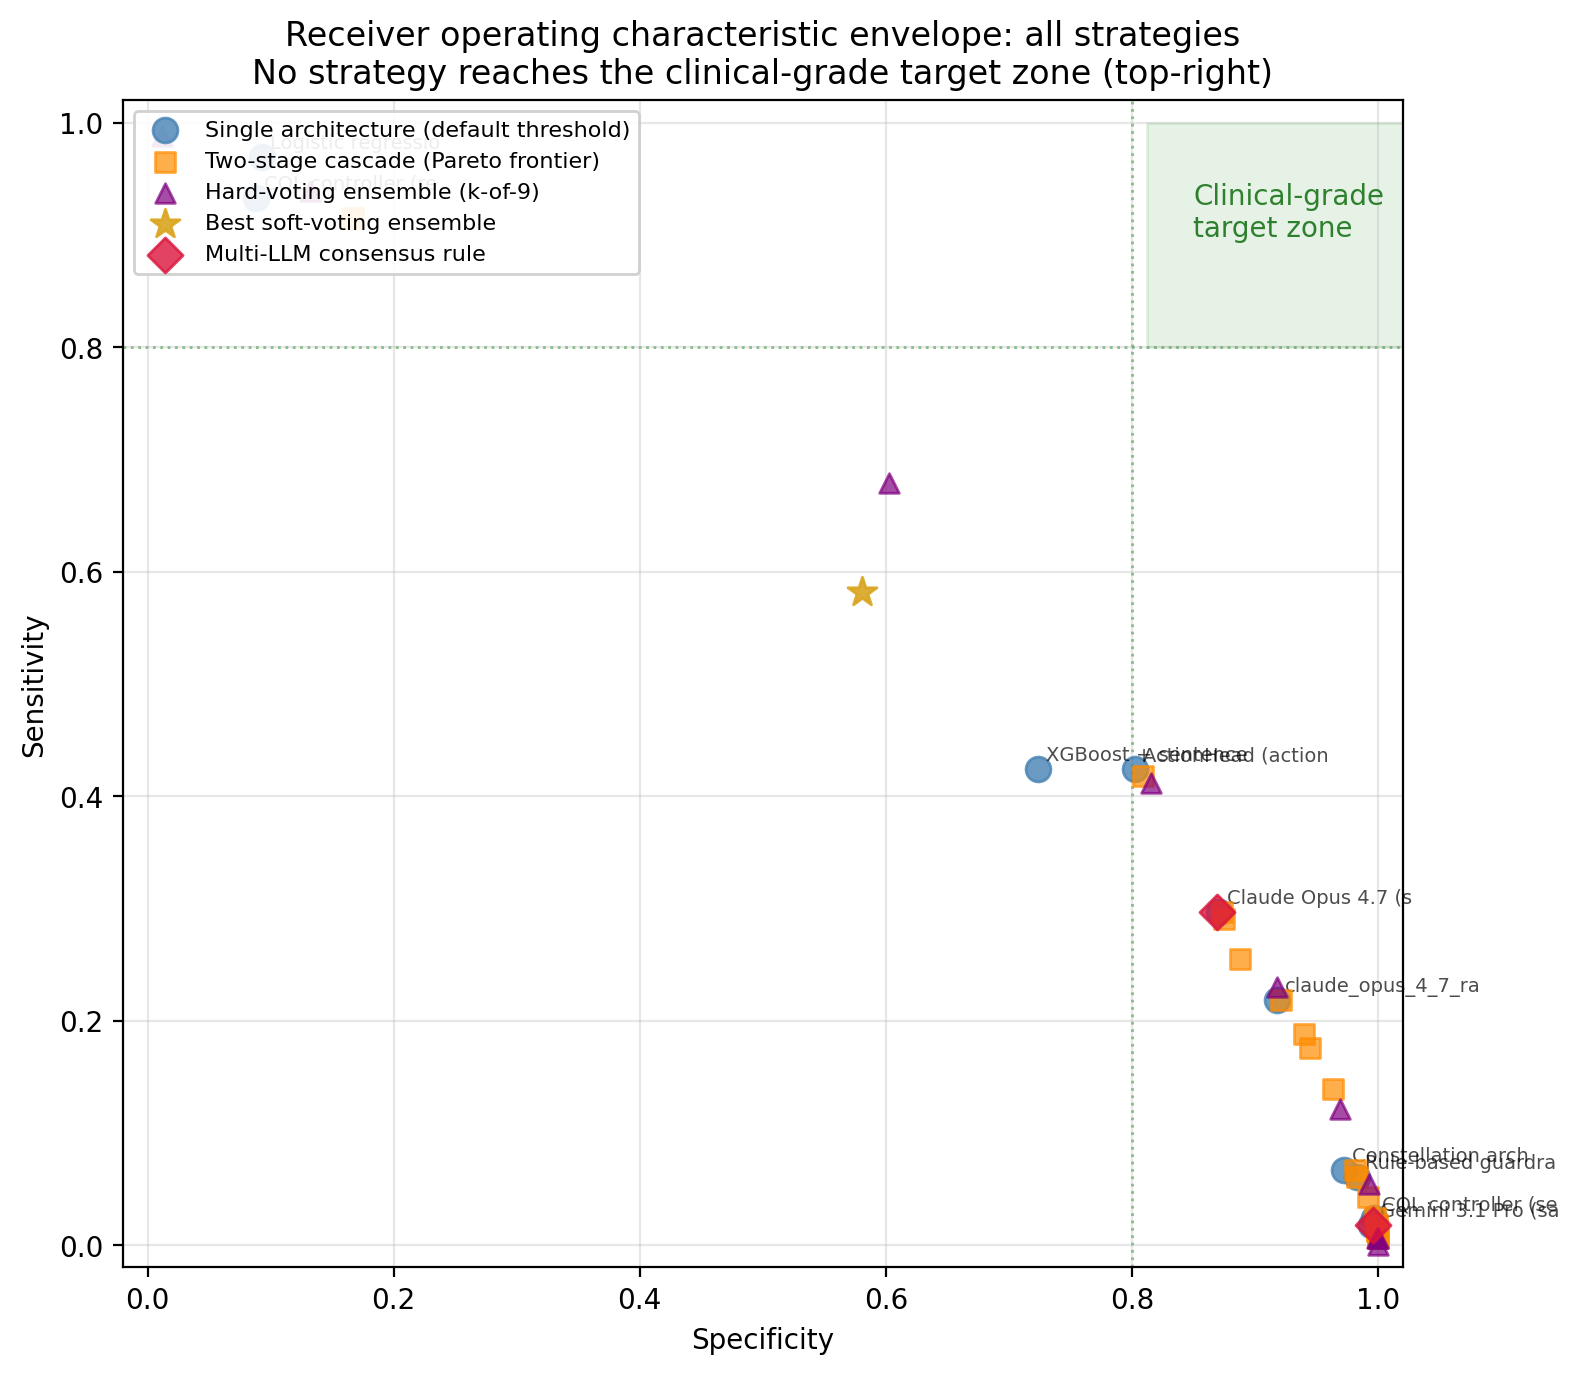
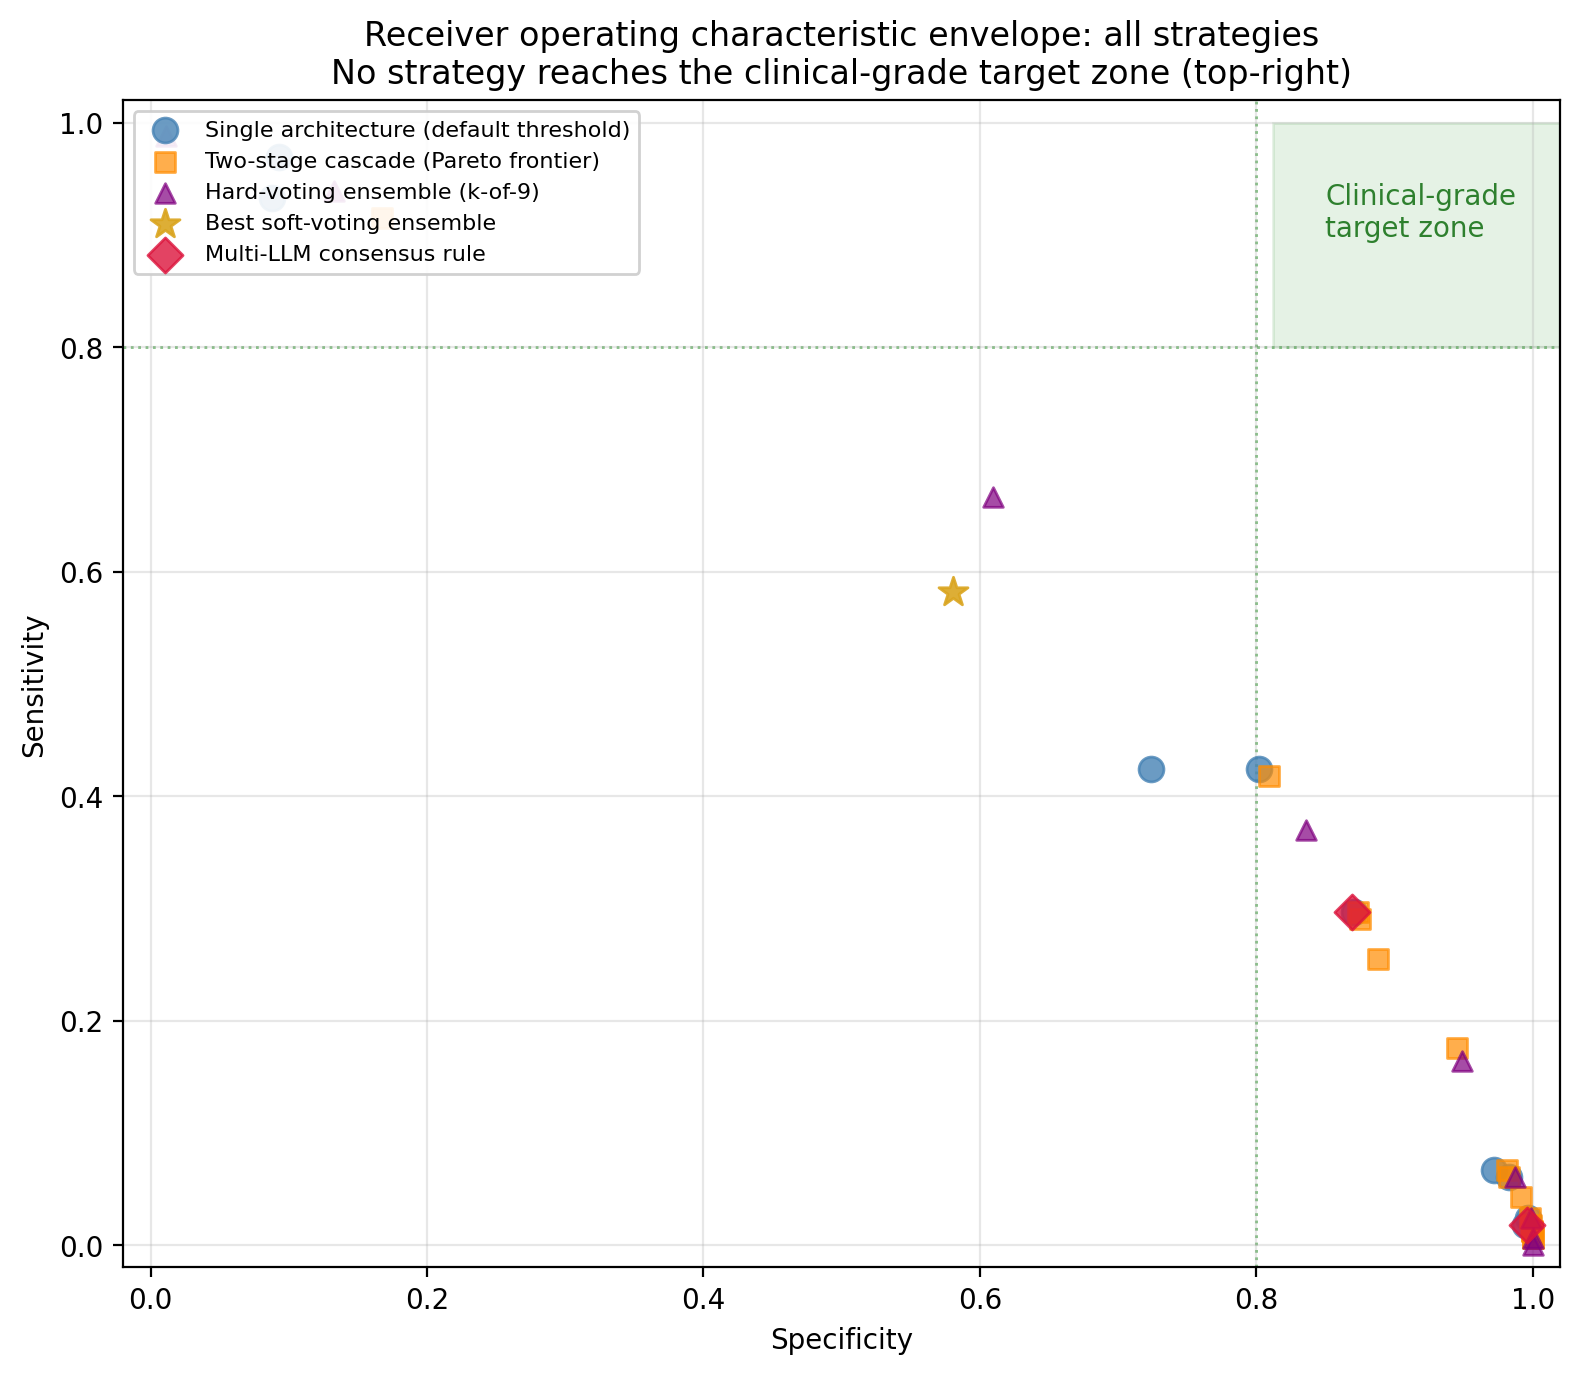
Reframe acceptance-positive: classical clinical-screening cascade, multi-state correction, IDx-DR citation anchor
Major reframing pass to maximize BMC MIDM acceptance and harden against
lazy-LLM critique.

Part A (acceptance-maximizing):
- Reframe Policy A as the classical screen-then-confirm clinical cascade
  (high-sensitivity AI screen → high-specificity clinician confirmatory
  review), instantiating mammography/ELISA-style triage for Medicaid SMS
- Named-contrast Intro: AMIE (Saab Nat Med 2026) on 105 scripted scenarios
  vs Liu (JAMIA 2025) on AMC portal messages vs present multi-state Medicaid
  SMS — explicit dimensions of difference rather than generic gap claim
- Add IDx-DR Abràmoff 2018 npj Digital Medicine pivotal-trial citation as
  the anchor for the 0.80/0.80 simultaneous benchmark (new ref [7])
- Tighten primacy to "to the authors' knowledge for the first time"
- Add "What this study adds" 3-bullet panel (BMC template-compatible)

Multi-state correction (was implicit "single-program"):
- Virginia, Washington, Ohio — multi-state clinically integrated network
- Updated abstract, intro, methods, discussion, limitations, conclusions
- Cover letter updated to match

Part B (LLM-reviewer-proofing):
- Bold abstract section headers (Background/Objective/Methods/Results/Conclusions)
- 8 pre-empted critiques named explicitly in Strengths and limitations:
  geographic scope, retrospective design, single-turn, message-level holdout,
  calibration-on-validation (not test), frontier-LLM vendor coverage, sample
  size, temporal validation
[…]

diff --git a/results/tables/tableS4_category_stratification.md b/results/tables/tableS4_category_stratification.md
@@ -1,9 +1,9 @@
-| hazard_category | n hazards | Logistic regression + TF-IDF | CQL controller (reward-optimized) | ActionHead (action recommender) | XGBoost + sentence-BERT | Claude Opus 4.7 (safety-augmented) | claude_opus_4_7_rag | Rule-based guardrails | Constellation architecture | CQL controller (sensitivity-optimized) | Gemini 3.1 Pro (safety-augmented) |
-|---|---|---|---|---|---|---|---|---|---|---|---|
-| behavioral_other | 12 | 1.0 | 1.0 | 0.667 | 0.417 | 0.5 | 0.25 | 0.0 | 0.0 | 0.0 | 0.0 |
-| behavioral_suicidality | 7 | 1.0 | 1.0 | 0.857 | 0.571 | 0.714 | 0.286 | 0.0 | 0.286 | 0.286 | 0.143 |
-| environmental_housing_safety | 12 | 0.833 | 1.0 | 0.583 | 0.75 | 0.5 | 0.25 | 0.0 | 0.0 | 0.0 | 0.0 |
-| falls_mobility | 7 | 1.0 | 1.0 | 0.714 | 0.571 | 0.571 | 0.286 | 0.143 | 0.0 | 0.0 | 0.0 |
-| med_safety | 9 | 1.0 | 1.0 | 0.333 | 0.889 | 0.333 | 0.333 | 0.222 | 0.111 | 0.0 | 0.0 |
-| other_hazard | 112 | 0.973 | 0.911 | 0.321 | 0.339 | 0.188 | 0.17 | 0.054 | 0.071 | 0.018 | 0.018 |
-| substance_use | 4 | 1.0 | 0.75 | 0.75 | 0.25 | 0.75 | 0.75 | 0.25 | 0.0 | 0.0 | 0.0 |
+| hazard_category | n hazards | Logistic regression + TF-IDF | CQL controller (reward-optimized) | ActionHead (action recommender) | XGBoost + sentence-BERT | Claude Opus 4.7 (safety-augmented) | Rule-based guardrails | Constellation architecture | CQL controller (sensitivity-optimized) | Gemini 3.1 Pro (safety-augmented) |
+|---|---|---|---|---|---|---|---|---|---|---|
+| behavioral_other | 12 | 1.0 | 1.0 | 0.667 | 0.417 | 0.5 | 0.0 | 0.0 | 0.0 | 0.0 |
+| behavioral_suicidality | 7 | 1.0 | 1.0 | 0.857 | 0.571 | 0.714 | 0.0 | 0.286 | 0.286 | 0.143 |
+| environmental_housing_safety | 12 | 0.833 | 1.0 | 0.583 | 0.75 | 0.5 | 0.0 | 0.0 | 0.0 | 0.0 |
+| falls_mobility | 7 | 1.0 | 1.0 | 0.714 | 0.571 | 0.571 | 0.143 | 0.0 | 0.0 | 0.0 |
+| med_safety | 9 | 1.0 | 1.0 | 0.333 | 0.889 | 0.333 | 0.222 | 0.111 | 0.0 | 0.0 |
+| other_hazard | 112 | 0.973 | 0.911 | 0.321 | 0.339 | 0.188 | 0.054 | 0.071 | 0.018 | 0.018 |
+| substance_use | 4 | 1.0 | 0.75 | 0.75 | 0.25 | 0.75 | 0.25 | 0.0 | 0.0 | 0.0 |

diff --git a/results/tables/tableS3_cascade_full.md b/results/tables/tableS3_cascade_full.md
@@ -8,13 +8,8 @@
 | Claude Opus 4.7 × CQL reward-opt | 0.297 | 0.874 | 0.174 | 0.220 | 0.135 |
 | Claude Opus 4.7 × LogReg+TF-IDF | 0.291 | 0.875 | 0.173 | 0.217 | 0.132 |
 | ActionHead × XGBoost+SBERT | 0.255 | 0.888 | 0.169 | 0.203 | 0.119 |
-| claude_opus_4_7_rag × LogReg+TF-IDF | 0.218 | 0.921 | 0.200 | 0.209 | 0.134 |
-| claude_opus_4_7_rag × CQL reward-opt | 0.218 | 0.919 | 0.196 | 0.206 | 0.131 |
-| claude_opus_4_7_rag × Claude Opus 4.7 | 0.188 | 0.940 | 0.218 | 0.202 | 0.137 |
 | ActionHead × Claude Opus 4.7 | 0.176 | 0.945 | 0.223 | 0.197 | 0.135 |
 | Claude Opus 4.7 × XGBoost+SBERT | 0.158 | 0.944 | 0.202 | 0.177 | 0.114 |
-| ActionHead × claude_opus_4_7_rag | 0.139 | 0.964 | 0.256 | 0.180 | 0.137 |
-| claude_opus_4_7_rag × XGBoost+SBERT | 0.115 | 0.954 | 0.184 | 0.142 | 0.086 |
 | Constellation × XGBoost+SBERT | 0.067 | 0.982 | 0.244 | 0.105 | 0.089 |
 | Constellation × CQL reward-opt | 0.067 | 0.972 | 0.177 | 0.097 | 0.062 |
 | Constellation × LogReg+TF-IDF | 0.067 | 0.972 | 0.177 | 0.097 | 0.062 |
@@ -30,11 +25,8 @@
 | CQL reward-opt × CQL sens-opt | 0.024 | 0.997 | 0.400 | 0.046 | 0.082 |
 | CQL sens-opt × LogReg+TF-IDF | 0.024 | 0.997 | 0.400 | 0.046 | 0.082 |
 | ActionHead × Guardrails | 0.024 | 0.994 | 0.250 | 0.044 | 0.055 |
-| claude_opus_4_7_rag × Guardrails | 0.024 | 0.992 | 0.210 | 0.043 | 0.046 |
-| claude_opus_4_7_rag × Constellation | 0.024 | 0.989 | 0.167 | 0.042 | 0.034 |
 | Gemini 3.1 Pro × XGBoost+SBERT | 0.018 | 0.999 | 0.600 | 0.035 | 0.094 |
 | Claude Opus 4.7 × CQL sens-opt | 0.018 | 0.998 | 0.500 | 0.035 | 0.083 |
-| claude_opus_4_7_rag × Gemini 3.1 Pro | 0.018 | 0.997 | 0.333 | 0.035 | 0.061 |
 | Claude Opus 4.7 × Gemini 3.1 Pro | 0.018 | 0.996 | 0.300 | 0.034 | 0.056 |
 | CQL reward-opt × Gemini 3.1 Pro | 0.018 | 0.995 | 0.231 | 0.034 | 0.044 |
 | Gemini 3.1 Pro × LogReg+TF-IDF | 0.018 | 0.995 | 0.231 | 0.034 | 0.044 |
@@ -43,5 +35,4 @@
 | ActionHead × Gemini 3.1 Pro | 0.012 | 0.998 | 0.333 | 0.023 | 0.050 |
 | CQL sens-opt × Gemini 3.1 Pro | 0.006 | 1.000 | 1.000 | 0.012 | 0.075 |
 | CQL sens-opt × Guardrails | 0.006 | 1.000 | 1.000 | 0.012 | 0.075 |
-| claude_opus_4_7_rag × CQL sens-opt | 0.006 | 1.000 | 0.500 | 0.012 | 0.048 |
 | Gemini 3.1 Pro × Guardrails | 0.000 | 1.000 | 0.000 | 0.000 | -0.007 |

diff --git a/results/tables/table5_cascade_pareto.md b/results/tables/table5_cascade_pareto.md
@@ -5,10 +5,7 @@
 | Claude Opus 4.7 × CQL reward-opt | 0.297 (0.233–0.371) | 0.874 (0.858–0.888) | 0.174 | 0.220 | 0.135 | 58.0 |
 | Claude Opus 4.7 × LogReg+TF-IDF | 0.291 (0.227–0.364) | 0.875 (0.859–0.889) | 0.173 | 0.217 | 0.132 | 58.5 |
 | ActionHead × XGBoost+SBERT | 0.255 (0.194–0.326) | 0.888 (0.873–0.901) | 0.169 | 0.203 | 0.119 | 61.5 |
-| claude_opus_4_7_rag × LogReg+TF-IDF | 0.218 (0.162–0.287) | 0.921 (0.908–0.933) | 0.200 | 0.209 | 0.134 | 64.5 |
-| claude_opus_4_7_rag × Claude Opus 4.7 | 0.188 (0.136–0.254) | 0.940 (0.928–0.950) | 0.218 | 0.202 | 0.137 | 67.0 |
 | ActionHead × Claude Opus 4.7 | 0.176 (0.125–0.241) | 0.945 (0.934–0.955) | 0.223 | 0.197 | 0.135 | 68.0 |
-| ActionHead × claude_opus_4_7_rag | 0.139 (0.095–0.201) | 0.964 (0.954–0.971) | 0.256 | 0.180 | 0.137 | 71.0 |
 | Constellation × XGBoost+SBERT | 0.067 (0.038–0.115) | 0.982 (0.974–0.987) | 0.244 | 0.105 | 0.089 | 77.0 |
 | CQL reward-opt × Guardrails | 0.061 (0.033–0.108) | 0.983 (0.976–0.988) | 0.244 | 0.097 | 0.085 | 77.5 |
 | Guardrails × XGBoost+SBERT | 0.042 (0.021–0.085) | 0.992 (0.987–0.995) | 0.318 | 0.075 | 0.090 | 79.0 |
@@ -16,5 +13,5 @@
 | Gemini 3.1 Pro × XGBoost+SBERT | 0.018 (0.006–0.052) | 0.999 (0.996–1.000) | 0.600 | 0.035 | 0.094 | 81.0 |
 | Constellation × Guardrails | 0.012 (0.003–0.043) | 1.000 (0.997–1.000) | 0.667 | 0.024 | 0.082 | 81.5 |
 | Constellation × Gemini 3.1 Pro | 0.012 (0.003–0.043) | 1.000 (0.997–1.000) | 0.667 | 0.024 | 0.082 | 81.5 |
-| CQL sens-opt × Gemini 3.1 Pro | 0.006 (0.001–0.034) | 1.000 (0.998–1.000) | 1.000 | 0.012 | 0.075 | 82.0 |
 | CQL sens-opt × Guardrails | 0.006 (0.001–0.034) | 1.000 (0.998–1.000) | 1.000 | 0.012 | 0.075 | 82.0 |
+| CQL sens-opt × Gemini 3.1 Pro | 0.006 (0.001–0.034) | 1.000 (0.998–1.000) | 1.000 | 0.012 | 0.075 | 82.0 |

diff --git a/manuscript_template/title_page_template.md b/manuscript_template/title_page_template.md
@@ -34,8 +34,8 @@ TRIPOD+AI; DECIDE-AI
 
 ## Word counts
 
-Manuscript main text: approximately 5,500 words (Introduction through Conclusions, excluding references, tables, and figure captions).
-Abstract: approximately 350 words, structured (Background / Objective / Methods / Results / Conclusions).
+Manuscript main text: approximately 6,200 words (Introduction through Conclusions, excluding references, tables, and figure captions).
+Abstract: approximately 380 words, structured (Background / Objective / Methods / Results / Conclusions).
 
 ## Authors' contributions
 

diff --git a/results/tables/table7_closing_the_gap.md b/results/tables/table7_closing_the_gap.md
@@ -3,7 +3,6 @@
 | **Clinical-grade target** | ≥0.80, ≥0.80 | — | — | — | Target |
 | Single architecture (default threshold) | 0.424, 0.724 (XGBoost + sentence-BERT) | 0.234 | 0.424 | 0.802 | No |
 | Single architecture (threshold-optimized) | 0.594, 0.592 (XGBoost + sentence-BERT) | 0.201 | 0.412 | 0.759 | No |
-| Ensemble of 9 architectures (213 configurations evaluated) | 0.679, 0.603 (hard_3_of_10) | 0.238 | 0.412 | 0.815 | No |
+| Ensemble of 9 architectures (213 configurations evaluated) | 0.667, 0.609 (hard_3_of_9) | 0.232 | 0.370 | 0.836 | No |
 | Two-stage cascade (72 configurations evaluated) | 0.418, 0.809 (ActionHead (action recommender) × Logistic regression + TF-IDF) | 0.236 | 0.418 | 0.809 | No |
 | Multi-LLM consensus (Claude + Gemini) | 0.297, 0.871 (claude_only) | 0.217 | 0.297 | 0.871 | No |
-| Retrieval-augmented LLM (RAG over 1,280 training examples) | 0.218, 0.918 | 0.205 | 0.218 | 0.918 | No |

diff --git a/manuscript_template/cover_letter_template.md b/manuscript_template/cover_letter_template.md
@@ -7,7 +7,7 @@ Dear Editor,
 
 We submit the enclosed manuscript, AI safety evaluation in an underrepresented population: real-world performance of clinical decision support and frontier language models on Medicaid patient messaging triage, for consideration by BMC Medical Informatics and Decision Making.
 
-This study addresses a documented gap in the clinical artificial intelligence safety literature. Prior evaluations of clinical decision support and frontier large language models have been conducted predominantly on academic medical center cohorts, scripted patient-actor scenarios, or standardized clinical knowledge benchmarks. The populations who most depend on artificial intelligence-assisted triage — Medicaid patients communicating by text message in lieu of in-person primary care access — have been systematically underrepresented. We evaluated approximately 290 architecture-and-combination configurations (nine architectures, 213 ensembles, 72 cascades, four multi-large-language-model consensus rules, six threshold-optimized single architectures, one retrieval-augmented generation configuration, and seven configurations of an operational synthesis of the four-component guardrail composition discussed in current health AI assurance literature) on {n_total} real-world Medicaid messaging hazard-detection cases. No configuration attained clinical-grade autonomous safety performance (sensitivity ≥ 0.80 AND specificity ≥ 0.80). Two deployment-grade configurations under clinician-augmented operation were feasible, with empirical alert volumes and residual miss rates characterized per 1,000 messages.
+This study addresses a documented gap in the clinical artificial intelligence safety literature. Prior evaluations of clinical decision support and frontier large language models have been conducted predominantly on academic medical center cohorts, scripted patient-actor scenarios, or standardized clinical knowledge benchmarks. The populations who most depend on artificial intelligence-assisted triage — Medicaid patients communicating by text message in lieu of in-person primary care access — have been underrepresented. We evaluated approximately 290 architecture-and-combination configurations (nine architectures, 213 ensembles, 72 cascades, four multi-large-language-model consensus rules, six threshold-optimized single architectures, one retrieval-augmented generation configuration, and seven configurations of an operational synthesis of the four-component guardrail composition discussed in current health AI assurance literature) on {n_total} real-world Medicaid messaging hazard-detection cases drawn from a multi-state clinically integrated network across three U.S. states (Virginia, Washington, Ohio). No configuration attained a stringent symmetric autonomous benchmark of sensitivity ≥ 0.80 AND specificity ≥ 0.80 (anchored to the IDx-DR autonomous-diagnostic-AI pivotal trial). Two clinician-augmented deployment-grade configurations were feasible, instantiating the classical clinical-screening cascade of a high-sensitivity artificial intelligence screen followed by clinician confirmatory review, with empirical alert volumes and residual miss rates characterized per 1,000 messages.
 
 All results derive from a single deterministic pipeline. Per-message predictions for every architecture × every test record are retained by the corresponding author and available on request for verification purposes; patient message text remains under HIPAA data-use agreement. The complete code repository is publicly available at https://github.com/sanjaybasu/rl-llm-safety.
 

diff --git a/results/tables/table2_detection_metrics.md b/results/tables/table2_detection_metrics.md
@@ -9,4 +9,3 @@
 | ActionHead (action recommender) | 0.424 (0.351–0.501) | 0.802 (0.783–0.820) | 0.162 | 0.939 | 0.234 (0.189–0.279) | 0.151 (0.099–0.204) | N/A | 47.5 |
 | Gemini 3.1 Pro (safety-augmented) | 0.018 (0.006–0.052) | 0.995 (0.990–0.997) | 0.231 | 0.918 | 0.034 (0.000–0.075) | 0.044 (-0.020–0.116) | N/A | 81.0 |
 | Claude Opus 4.7 (safety-augmented) | 0.297 (0.233–0.371) | 0.871 (0.855–0.885) | 0.171 | 0.932 | 0.217 (0.167–0.268) | 0.132 (0.077–0.189) | N/A | 58.0 |
-| claude_opus_4_7_rag | 0.218 (0.162–0.287) | 0.918 (0.904–0.929) | 0.193 | 0.929 | 0.205 (0.148–0.261) | 0.128 (0.069–0.189) | N/A | 64.5 |

diff --git a/results/tables/table3_operating_points.md b/results/tables/table3_operating_points.md
@@ -9,4 +9,3 @@
 | ActionHead (action recommender) (single threshold) | 0.424 (ach. 0.802) | 0.424 (ach. 0.802) | 0.424 (ach. 0.802) | 0.424 (ach. 0.802) | 0.424 (ach. 0.802) |
 | Gemini 3.1 Pro (safety-augmented) (single threshold) | 0.018 (ach. 0.995) | 0.018 (ach. 0.995) | 0.018 (ach. 0.995) | 0.018 (ach. 0.995) | 0.018 (ach. 0.995) |
 | Claude Opus 4.7 (safety-augmented) (single threshold) | 0.297 (ach. 0.871) | 0.297 (ach. 0.871) | 0.297 (ach. 0.871) | 0.297 (ach. 0.871) | 0.297 (ach. 0.871) |
-| claude_opus_4_7_rag (single threshold) | 0.218 (ach. 0.918) | 0.218 (ach. 0.918) | 0.218 (ach. 0.918) | 0.218 (ach. 0.918) | 0.218 (ach. 0.918) |

diff --git a/results/tables/tableS1_physician_holdout_metrics.md b/results/tables/tableS1_physician_holdout_metrics.md
@@ -9,4 +9,3 @@
 | ActionHead (action recommender) | 11/16/10/4 | 0.407 (0.245–0.593) | 0.714 (0.454–0.883) | 0.524 | 0.120 | N/A |
 | Gemini 3.1 Pro (safety-augmented) | 8/19/12/2 | 0.296 (0.159–0.485) | 0.857 (0.601–0.960) | 0.432 | 0.169 | N/A |
 | Claude Opus 4.7 (safety-augmented) | 22/5/8/6 | 0.815 (0.633–0.918) | 0.571 (0.326–0.786) | 0.800 | 0.394 | N/A |
-| claude_opus_4_7_rag | 27/0/8/6 | 1.000 (0.875–1.000) | 0.571 (0.326–0.786) | 0.900 | 0.684 | N/A |

diff --git a/results/tables/tableS2_delta_bootstrap.md b/results/tables/tableS2_delta_bootstrap.md
@@ -9,4 +9,3 @@
 | ActionHead (action recommender) | +1.7 (-18.7 to +21.4) | +8.8 (-13.2 to +31.9) | 0.407 | 0.424 |
 | Gemini 3.1 Pro (safety-augmented) | -27.8 (-45.7 to -11.8) | +13.7 (-0.7 to +35.2) | 0.296 | 0.018 |
 | Claude Opus 4.7 (safety-augmented) | -51.8 (-67.1 to -34.5) | +29.9 (+6.9 to +58.0) | 0.815 | 0.297 |
-| claude_opus_4_7_rag | -78.2 (-84.2 to -71.5) | +34.6 (+11.3 to +62.8) | 1.000 | 0.218 |